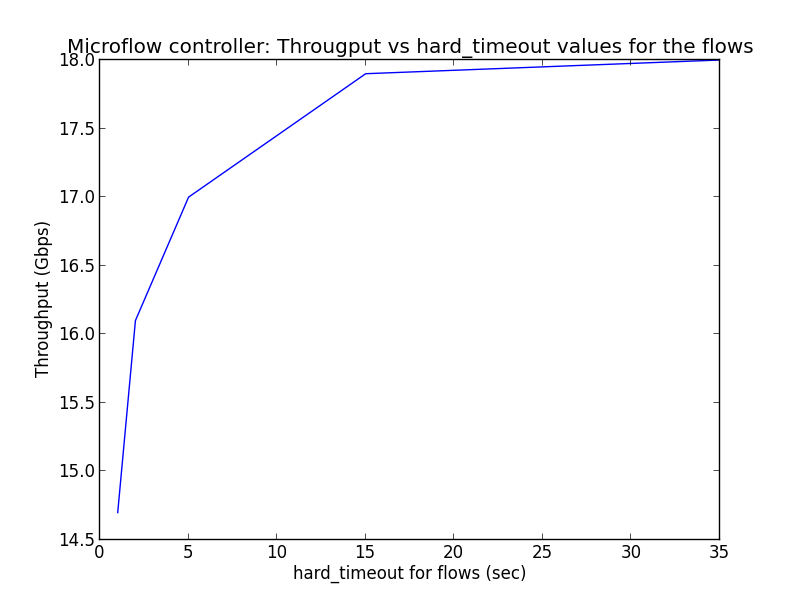
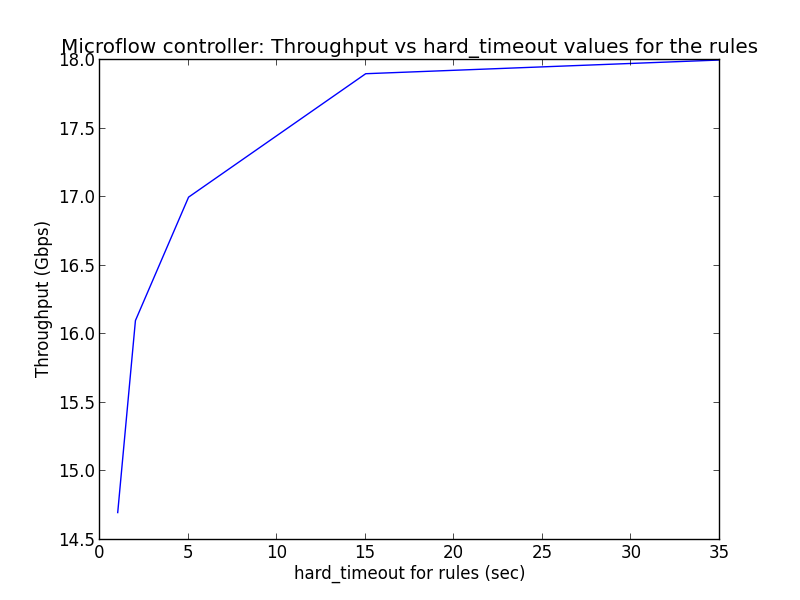
Fixed timeout plot

Changed region(s): [[0.0625, 0.06, 0.9688, 0.09], [0.375, 0.93, 0.6562, 0.99]]

diff --git a/submission/akarkats_panandr/assignment7/microFlowController/plot.py b/submission/akarkats_panandr/assignment7/microFlowController/plot.py
@@ -39,8 +39,8 @@ with open('timeouts.txt', 'r') as f:
         timeouts.append(line.split()[0])
         perf.append(line.split()[1])
 
-plt.title("Microflow controller: Througput vs hard_timeout values for the flows")
-plt.xlabel("hard_timeout for flows (sec)")
+plt.title("Microflow controller: Throughput vs hard_timeout values for the rules")
+plt.xlabel("hard_timeout for rules (sec)")
 plt.ylabel("Throughput (Gbps)")
 
 axes = plt.gca()
